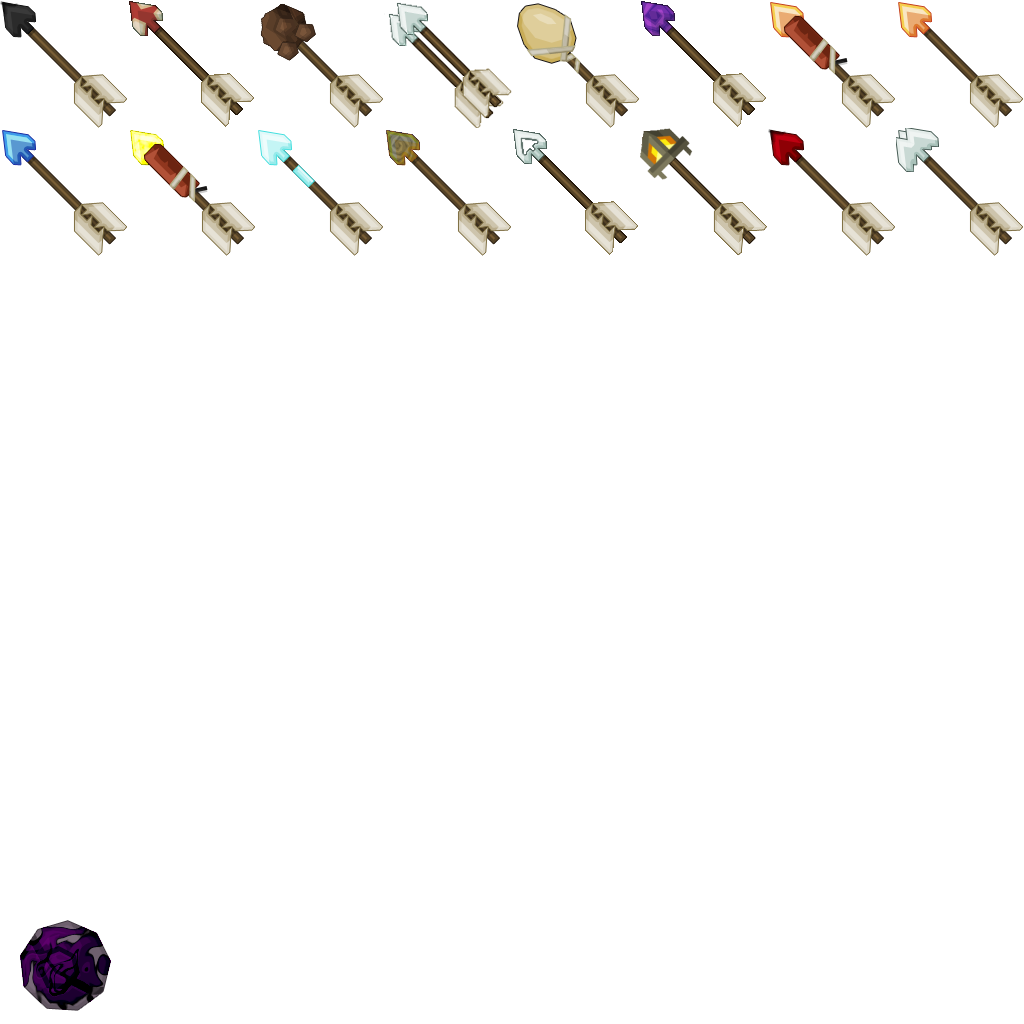
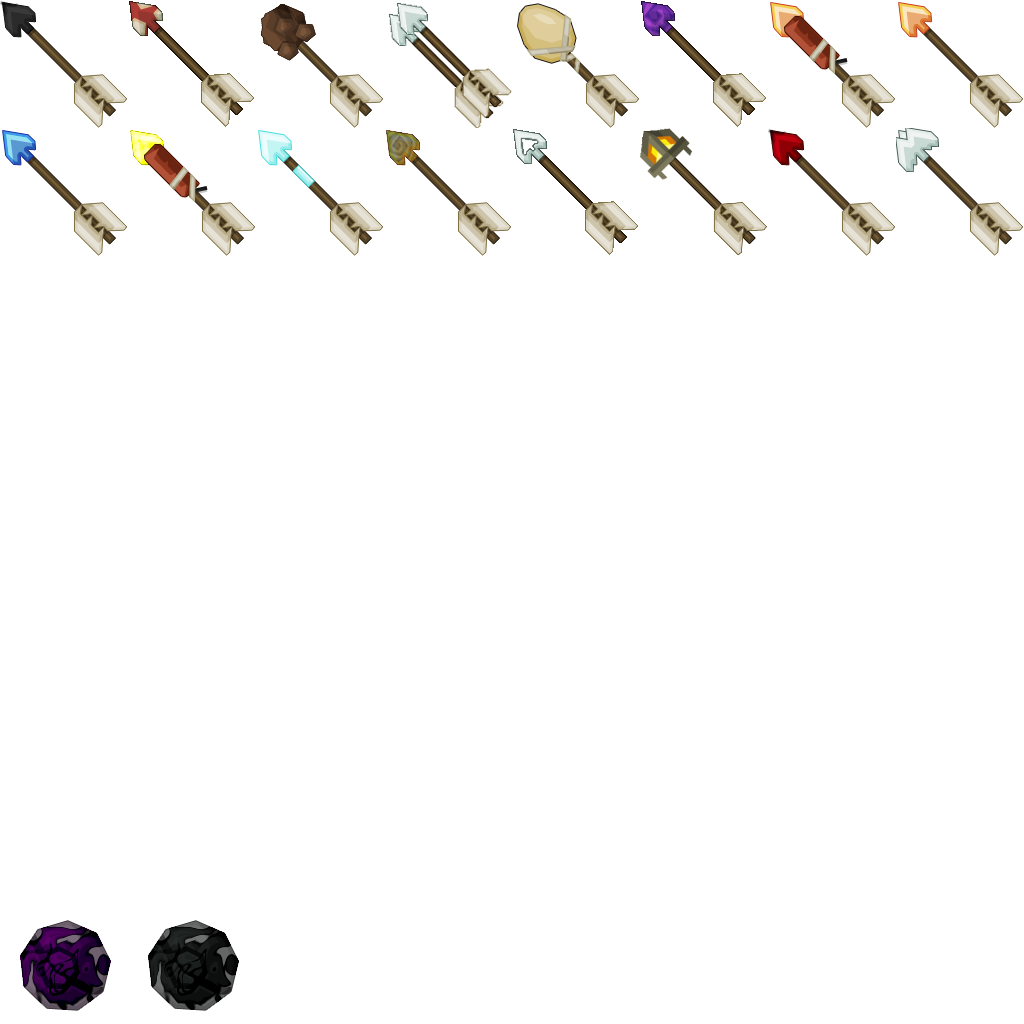
Changed the skeleton egg texture.

Changed region(s): [[0.125, 0.875, 0.25, 1.0]]

diff --git a/src/main/java/me/cybermaxke/elementalarrows/bukkit/plugin/material/MaterialManager.java b/src/main/java/me/cybermaxke/elementalarrows/bukkit/plugin/material/MaterialManager.java
@@ -34,6 +34,6 @@ public class MaterialManager {
 		new ArrowManager(plugin);
 
 		EGG_ELEMENTAL_SKELETON = new GenericCustomSpawnEgg(plugin, "Spawn Elemental Skeleton", "http://dl.dropbox.com/u/104060836/ElementalArrows/Resources/ElementalSkeletonEgg.png", ElementalSkeleton.class);
-		EGG_ELEMENTAL_TURRET = new GenericCustomSpawnEgg(plugin, "Spawn Elemental Turret", "http://dl.dropbox.com/u/104060836/ElementalArrows/Resources/ElementalSkeletonEgg.png", ElementalTurret.class);
+		EGG_ELEMENTAL_TURRET = new GenericCustomSpawnEgg(plugin, "Spawn Elemental Turret", "http://dl.dropbox.com/u/104060836/ElementalArrows/Resources/ElementalTurretEgg.png", ElementalTurret.class);
 	}
 }
